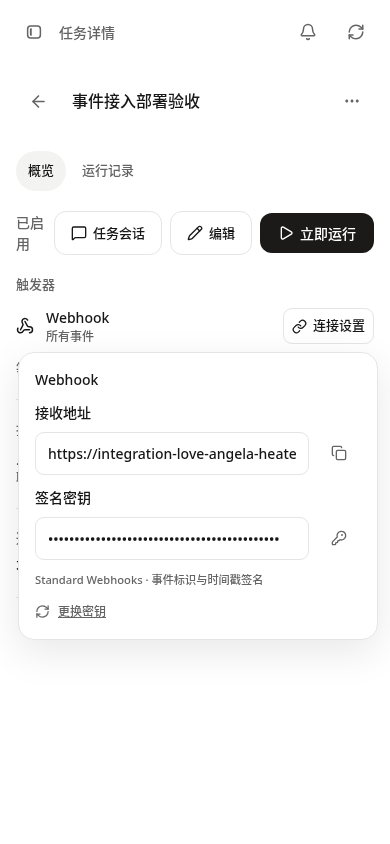
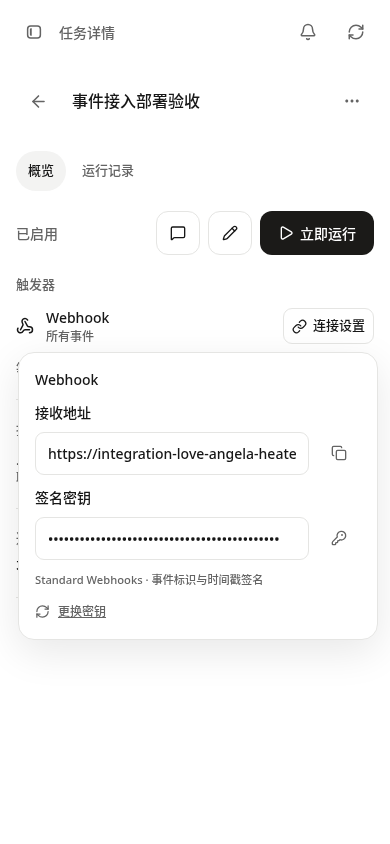
docs: finalize public automation and mobile acceptance evidence

diff --git a/.issue/2026-11-16/007-automation-sessions-events-plan.md b/.issue/2026-11-16/007-automation-sessions-events-plan.md
@@ -33,7 +33,7 @@ P1：生态兼容区分SKILL.md/声明式定义与运行时代码；原生JS/Pyt
 任务多次同一会话、各次结果准确，模型/模式/专家更新有效，旧历史可访问；四种协议真实HTTP接收/过滤/去重且运行相互隔离；暂停/删除/编辑/重启恢复有确定结果；无密钥进入普通列表/事件/模型。触发器支持搜索选择和紧凑摘要，设置按需展开；导入展示实际可移植能力与限制。只有实际证据可标完成，模拟上游标注边界。
 
 ## 状态
-已完成本轮范围内的实现、验证和生产部署。公网版本eefc244；完整结果及限制见007-automation-sessions-events-progress.md。OpenClaw/Hermes完整原生运行时、外部服务订阅和物理手机仍不属于完成声明。
+已完成本轮范围内的实现、验证和生产部署。公网Web版本81136e3、后端eefc244；完整结果及限制见007-automation-sessions-events-progress.md。OpenClaw/Hermes完整原生运行时、外部服务订阅和物理手机仍不属于完成声明。
 
 ## 执行中补充：E3 队列选择的共同风险
 有代码证据：旧调度只读取全局最早10条queued，事件积压使同一忙碌任务占满候选，另一个任务可能饥饿。这是新增事件FIFO与旧全局截断的边界问题。修复候选为每个任务最早一条，再沿用每任务串行与全局运行容量校验；添加“32条积压不阻止另一任务”验证。范围仅调度候选，不改变单任务顺序或并发权限。

diff --git a/.impeccable/surfaces/automations.md b/.impeccable/surfaces/automations.md
@@ -20,3 +20,5 @@ User feedback overrides the previous toolbar acceptance: at 320/390 the 44/36/28
 
 ## AUTO-6 ordinary extension
 A task owns one persistent conversation, while each run retains its own status and result record. Extend the existing searchable trigger picker with Webhook/GitHub/Hermes/OpenClaw events. Conditions use the incumbent compact popover, persistent field labels and one-line ellipsis summaries; connection details and masked keys appear only on request. No new global type, palette, shell or motion. Independent review fixed disappearing input semantics and returned ship after all six viewport/theme condition captures were reviewed. Evidence: 007-automation-events-design-review.md and .impeccable/review/automation-events/. DESIGN.md preserved; detector's historical compact-type advisories are recorded, not used to re-theme this extension. No raster assets ship.
+
+AUTO-6 post-run state: when a task gains its conversation link, <=480px detail secondary actions use 44px icon buttons with explicit accessible names/titles; status stays on one line and the primary run action retains text. Desktop text is unchanged. Six post-run viewport/theme captures and a public mobile capture passed geometry checks and independent review.

diff --git a/.issue/2026-11-16/007-automation-sessions-events-progress.md b/.issue/2026-11-16/007-automation-sessions-events-progress.md
@@ -62,3 +62,5 @@
 
 ## UI6 公网运行后状态补验
 公网首次运行后增加“任务会话”按钮使状态文字换行，已采用窄屏44px图标次操作、文字主操作与单行状态；桌面原文字不变。6/6运行后浏览器场景通过（320/390/1280×明暗），增加状态高度、按钮高度/中心、页面宽度与实际会话打开检查。首次修正发现主操作的全局手机44px最小高度，与局部40px冲突，已统一44px，未放宽验收。新增截图位于.impeccable/review/automation-events/*-event-after-run.png。仅Web补发，服务端保持eefc244。
+
+UI6独立复核resolved/ship；Web 81136e31e31a8cabc5da96e7d1889cdd09008042已上线，后端eefc244保持不变、DBv20保持不变。再次公网验收通过，包含状态单行/按钮同高检查与真实模型两轮同会话，测试任务删除/会话归档再次查询确认。最终receipt-ui6.json、deployment-ui6.json、public-events.json与public-cleanup.json对应这次补发。
